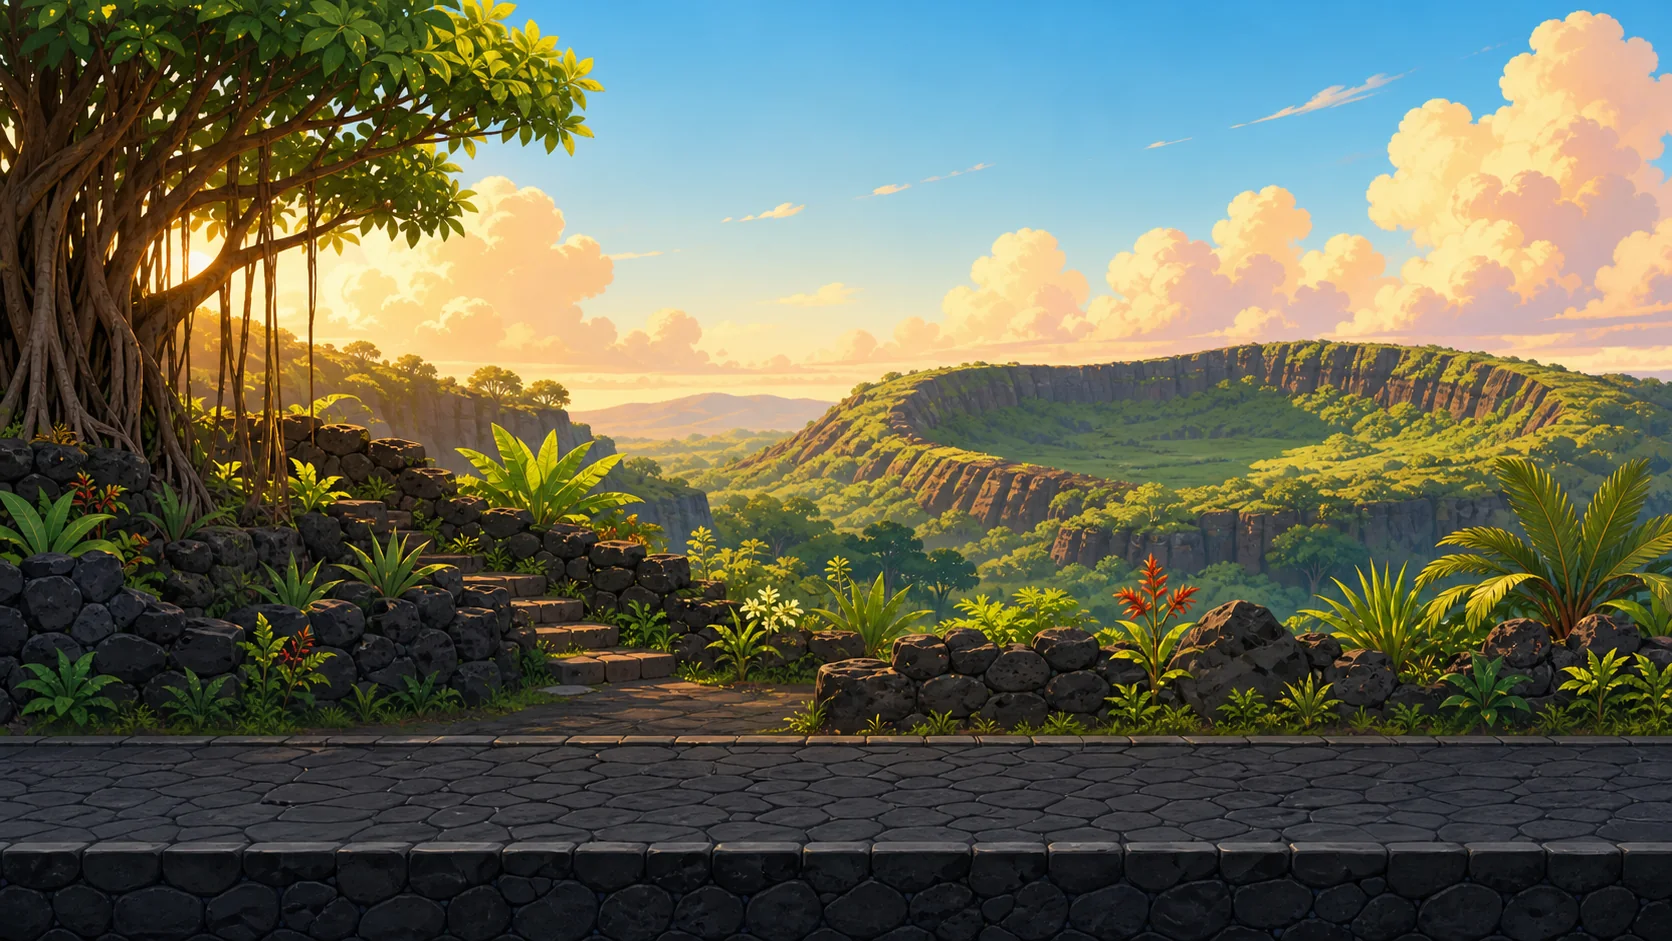
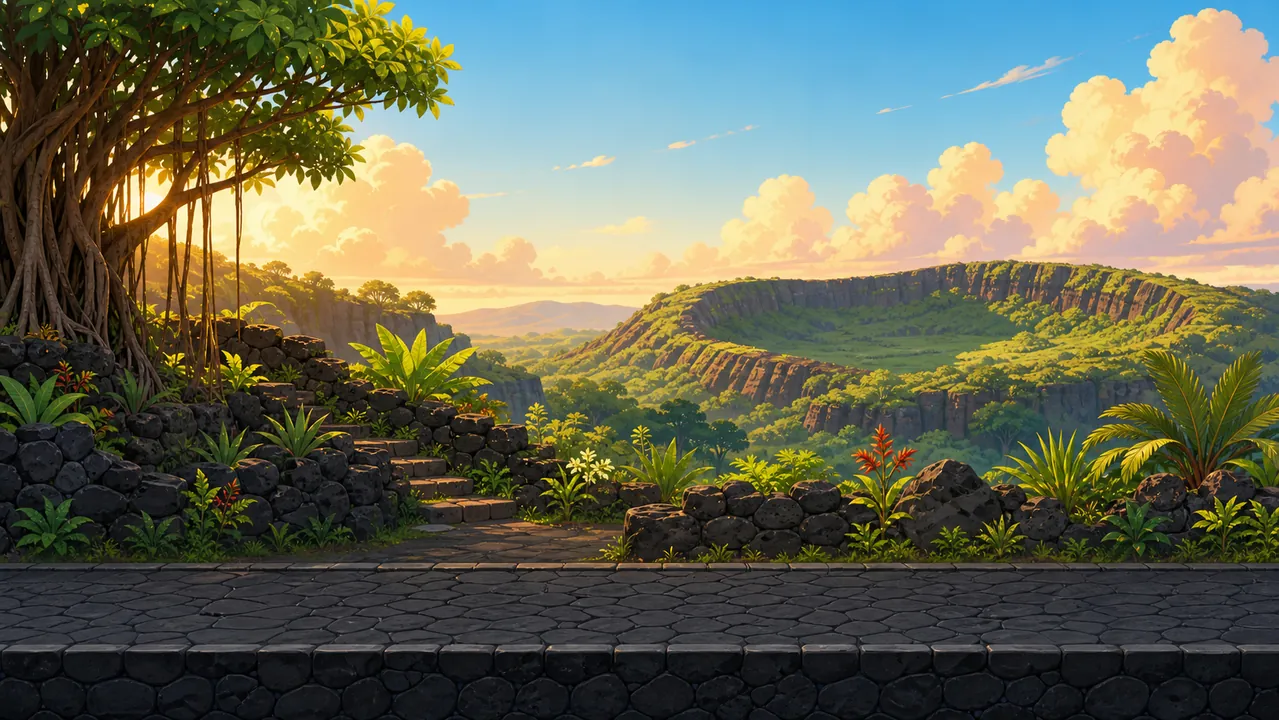
Add game-ready loading gate and reduce background size

diff --git a/game.js b/game.js
@@ -1067,7 +1067,8 @@
     }
   }
 
-  document.querySelector("#adventureButton").addEventListener("click", startAdventure);
+  const adventureButton = document.querySelector("#adventureButton");
+  adventureButton.addEventListener("click", startAdventure);
   document.querySelector("#levelSelectButton").addEventListener("click", () => { renderLevelGrid(); showScreen("levels"); });
   document.querySelector("#backToMenuButton").addEventListener("click", goMenu);
   document.querySelector("#clearProgressButton").addEventListener("click", () => {
@@ -1099,11 +1100,17 @@
   renderLevelGrid();
   updateHud();
 
-  Promise.all([
-    ...heroRunImages, heroJumpImage, ...clownSkateImages, clownSlipImage,
-    catImage, coinImage, ...backgroundImages,
-  ].map((image) => new Promise((resolve) => {
+  const waitForImage = (image) => new Promise((resolve) => {
     if (image.complete) resolve();
     else { image.addEventListener("load", resolve, { once: true }); image.addEventListener("error", resolve, { once: true }); }
-  }))).then(() => draw());
+  });
+
+  Promise.all([
+    backgroundImages[0], ...heroRunImages, heroJumpImage,
+    ...clownSkateImages, clownSlipImage,
+  ].map(waitForImage)).then(() => {
+    adventureButton.disabled = false;
+    adventureButton.textContent = "开始冒险";
+    draw();
+  });
 })();

diff --git a/styles.css b/styles.css
@@ -125,6 +125,7 @@ button:focus-visible { outline: 4px solid white; outline-offset: 3px; }
 .secondary-button { background: var(--sea); color: white; }
 .primary-button:hover, .secondary-button:hover { transform: translateY(-2px); box-shadow: 5px 7px 0 var(--ink); }
 .primary-button:active, .secondary-button:active { transform: translate(3px, 3px); box-shadow: 2px 2px 0 var(--ink); }
+.primary-button:disabled { cursor: wait; filter: grayscale(.35); opacity: .78; transform: none; box-shadow: 3px 3px 0 var(--ink); }
 .text-button { display: block; margin: 14px auto 0; border: 0; background: transparent; color: inherit; text-decoration: underline; font-weight: 800; cursor: pointer; }
 .danger-text { color: #a4362d; font-size: 12px; }
 

diff --git a/index.html b/index.html
@@ -66,7 +66,7 @@
             <p class="eyebrow">海口 · 六关大冒险</p>
             <h2>龙豆跑酷</h2>
             <p>夺回城市徽章，甩开穿轮滑鞋的小丑！</p>
-            <button id="adventureButton" class="primary-button" type="button">开始冒险</button>
+            <button id="adventureButton" class="primary-button" type="button" disabled>正在加载游戏…</button>
             <button id="levelSelectButton" class="text-button" type="button">选择关卡</button>
           </div>
           <div class="menu-tip">空格跳跃 · F 投水果 · Shift 加速</div>
